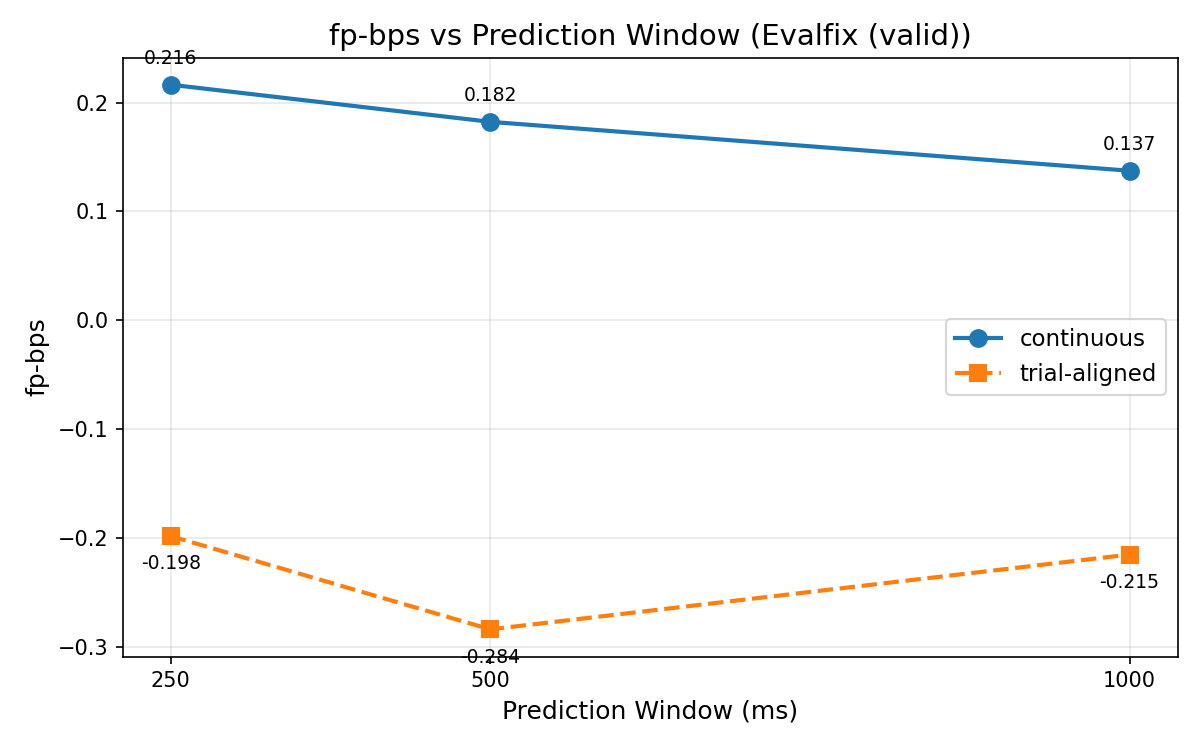
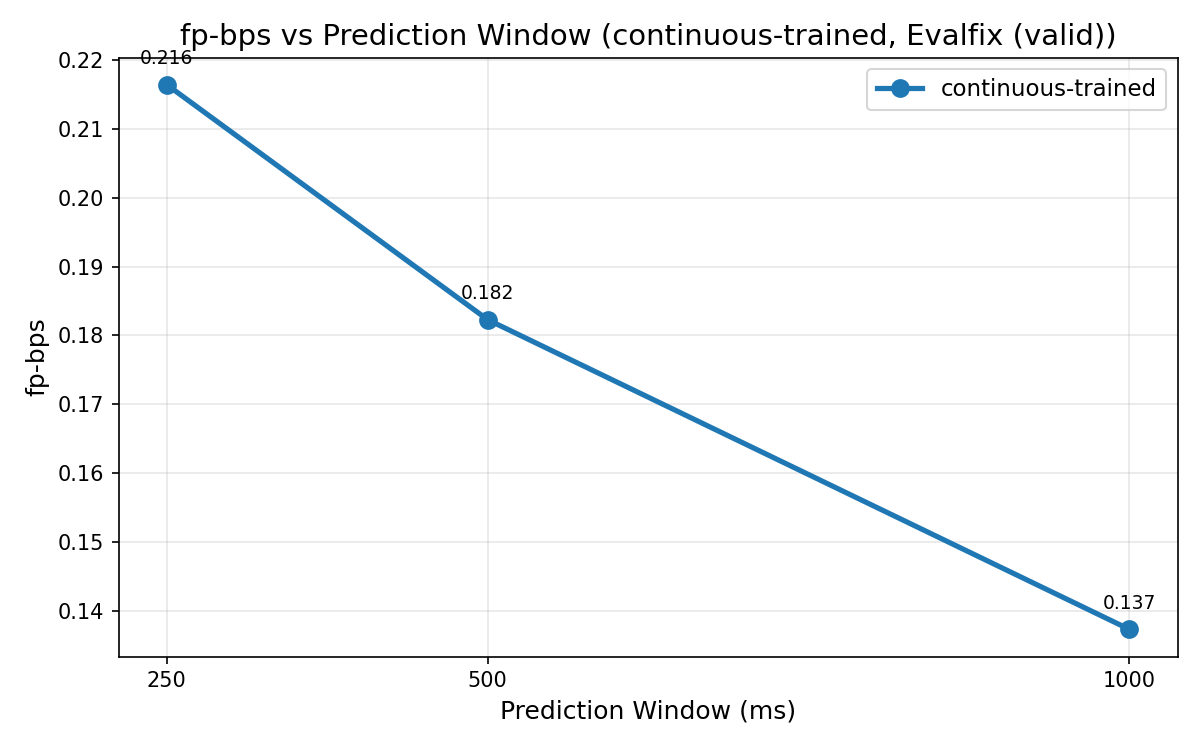
调整evalfix图包并补充250ms benchmark对比

diff --git a/scripts/analysis/neurohorizon/phase1_v2_visualize.py b/scripts/analysis/neurohorizon/phase1_v2_visualize.py
@@ -23,6 +23,7 @@ import numpy as np
 
 ROOT = Path("/root/autodl-tmp/NeuroHorizon")
 BASE = ROOT / "results" / "logs"
+WINDOWS = [250, 500, 1000]
 DEFAULT_OUT_DIRS = {
     "legacy": ROOT / "results" / "figures" / "phase1_v2",
     "evalfix": ROOT / "results" / "figures" / "phase1_v2_evalfix",
@@ -132,6 +133,11 @@ def resolve_out_dir(args) -> Path:
     return out_dir
 
 
+def cleanup_evalfix_outputs(out_dir: Path):
+    for candidate in out_dir.glob("*.png"):
+        candidate.unlink()
+
+
 def result_json_candidates(condition, protocol: str, split: str):
     dir_name = condition["legacy_dir"] if protocol == "legacy" else condition["evalfix_dir"]
     if protocol == "legacy":
@@ -153,11 +159,15 @@ def metrics_candidates(condition, protocol: str):
     ]
 
 
+def load_json(path: Path):
+    with path.open() as handle:
+        return json.load(handle)
+
+
 def load_first_json(candidates):
     for candidate in candidates:
         if candidate.exists():
-            with candidate.open() as handle:
-                return json.load(handle)
+            return load_json(candidate)
     return None
 
 
@@ -274,6 +284,30 @@ def annotate_bars(ax, bars):
         )
 
 
+def load_benchmark_focus_values():
+    nh_payload = load_first_json(
+        [
+            BASE / "phase1_v2_evalfix_250ms_cont" / "lightning_logs" / "version_0" / "eval_v2_test_results.json",
+            BASE / "phase1_v2_evalfix_250ms_cont" / "lightning_logs" / "eval_v2_test_results.json",
+        ]
+    )
+    nf_payload = load_json(
+        BASE / "phase1_benchmark_repro_faithful_neuroformer_250ms_canonical_e50_aligned" / "formal_eval" / "eval_results.json"
+    )
+    ibl_payload = load_json(
+        BASE
+        / "phase1-autoregressive-1.8-benchmark_model"
+        / "20260321_benchmark_ibl_e300_neuroformer_session_conditioning"
+        / "ibl_mtm_combined_e300_aligned"
+        / "results.json"
+    )
+    return {
+        "NeuroHorizon 250ms": nh_payload["continuous"]["fp_bps"],
+        "Neuroformer faithful 250ms": nf_payload["continuous_metrics"]["test"]["rollout"]["fp_bps"],
+        "IBL e300 250ms": ibl_payload["test_metrics"]["fp_bps"],
+    }
+
+
 def fig1_fpbps_vs_window(results, out_dir: Path, tag: str, mode: str):
     mode_results = filter_results_by_mode(results, mode)
     if not mode_results:
@@ -353,6 +387,55 @@ def fig2_perbin_decay(results, out_dir: Path, tag: str, mode: str):
     plt.close()
 
 
+def fig3_continuous_perbin_heatmap(results, out_dir: Path, tag: str):
+    mode_results = filter_results_by_mode(results, "continuous")
+    if not mode_results:
+        return
+
+    ordered_labels = ["250ms-cont", "500ms-cont", "1000ms-cont"]
+    max_bins = max(
+        len((payload.get("continuous") or {}).get("per_bin_fp_bps") or {})
+        for payload in mode_results.values()
+    )
+    data = np.full((len(ordered_labels), max_bins), np.nan, dtype=float)
+
+    for row_idx, label in enumerate(ordered_labels):
+        payload = mode_results.get(label)
+        if payload is None:
+            continue
+        per_bin = payload["continuous"].get("per_bin_fp_bps") or {}
+        for bin_key, value in per_bin.items():
+            data[row_idx, int(bin_key)] = value
+
+    masked = np.ma.masked_invalid(data)
+    cmap = plt.cm.YlGnBu.copy()
+    cmap.set_bad(color="#f0f0f0")
+
+    fig, ax = plt.subplots(1, 1, figsize=(12, 4.8))
+    image = ax.imshow(masked, aspect="auto", cmap=cmap)
+    ax.set_yticks(range(len(ordered_labels)))
+    ax.set_yticklabels(ordered_labels)
+    tick_positions = [0, 4, 9, 14, 19, 24, 29, 39, 49]
+    tick_positions = [tick for tick in tick_positions if tick < max_bins]
+    ax.set_xticks(tick_positions)
+    ax.set_xticklabels([f"{tick * 20}ms" for tick in tick_positions], rotation=0)
+    ax.set_xlabel("Prediction bin offset")
+    ax.set_title(f"Continuous per-bin fp-bps Heatmap ({tag})", fontsize=14)
+
+    for row_idx in range(masked.shape[0]):
+        for col_idx in range(masked.shape[1]):
+            if np.ma.is_masked(masked[row_idx, col_idx]):
+                continue
+            value = float(masked[row_idx, col_idx])
+            text_color = "white" if value < 0.14 else "black"
+            ax.text(col_idx, row_idx, f"{value:.2f}", ha="center", va="center", fontsize=7, color=text_color)
+
+    plt.colorbar(image, ax=ax, label="fp-bps")
+    plt.tight_layout()
+    plt.savefig(out_dir / "03_perbin_fpbps_heatmap.png", dpi=150)
+    plt.close()
+
+
 def fig3_psth_heatmap(results, out_dir: Path, tag: str, mode: str):
     labels = []
     per_target_rows = []
@@ -405,14 +488,47 @@ def fig3_psth_heatmap(results, out_dir: Path, tag: str, mode: str):
     plt.close()
 
 
-def fig4_cont_vs_trial(results, out_dir: Path, tag: str, mode: str):
-    windows = [250, 500, 1000]
+def fig4_continuous_metric_summary(results, out_dir: Path, tag: str):
     fig, axes = plt.subplots(1, 2, figsize=(12, 5))
     metric_specs = [("fp_bps", "fp-bps"), ("r2", "R-squared")]
 
     for axis, (metric_key, metric_label) in zip(axes, metric_specs):
         values = []
-        for window_ms in windows:
+        for window_ms in WINDOWS:
+            values.append(results.get(f"{window_ms}ms-cont", {}).get("continuous", {}).get(metric_key, 0.0))
+
+        axis.plot(
+            WINDOWS,
+            values,
+            color=MODE_SERIES_COLORS["continuous"],
+            linestyle=LINE_STYLES["continuous"],
+            marker=MARKERS["continuous"],
+            linewidth=2.5,
+            markersize=8,
+            label=MODE_DISPLAY_NAMES["continuous"],
+        )
+        annotate_point_series(axis, WINDOWS, values)
+        axis.set_xlabel("Prediction Window (ms)")
+        axis.set_ylabel(metric_label)
+        axis.set_title(f"{metric_label} vs Prediction Window")
+        axis.set_xticks(WINDOWS)
+        axis.legend()
+        axis.grid(True, alpha=0.3)
+        axis.axhline(y=0, color="gray", linestyle=":", alpha=0.5)
+
+    fig.suptitle(f"Continuous Metric Summary ({tag})", fontsize=14, y=1.02)
+    plt.tight_layout()
+    plt.savefig(out_dir / "04_continuous_metric_summary.png", dpi=150)
+    plt.close()
+
+
+def fig4_cont_vs_trial(results, out_dir: Path, tag: str, mode: str):
+    fig, axes = plt.subplots(1, 2, figsize=(12, 5))
+    metric_specs = [("fp_bps", "fp-bps"), ("r2", "R-squared")]
+
+    for axis, (metric_key, metric_label) in zip(axes, metric_specs):
+        values = []
+        for window_ms in WINDOWS:
             label = f"{window_ms}ms-{'cont' if mode == 'continuous' else 'trial'}"
             values.append(results.get(label, {}).get("continuous", {}).get(metric_key, 0.0))
 
@@ -426,12 +542,12 @@ def fig4_cont_vs_trial(results, out_dir: Path, tag: str, mode: str):
             markersize=8,
             label=MODE_DISPLAY_NAMES[mode],
         )
-        annotate_point_series(axis, windows, values)
+        annotate_point_series(axis, WINDOWS, values)
 
         axis.set_xlabel("Prediction Window (ms)")
         axis.set_ylabel(metric_label)
         axis.set_title(f"{metric_label} vs Prediction Window")
-        axis.set_xticks(windows)
+        axis.set_xticks(WINDOWS)
         axis.legend()
         axis.grid(True, alpha=0.3)
         axis.axhline(y=0, color="gray", linestyle=":", alpha=0.5)
@@ -490,6 +606,33 @@ def fig5_training_curves(curves, out_dir: Path, tag: str, mode: str):
     plt.close()
 
 
+def fig6_benchmark_comparison(out_dir: Path):
+    benchmark_values = load_benchmark_focus_values()
+    labels = list(benchmark_values.keys())
+    values = list(benchmark_values.values())
+    colors = ["#1f77b4", "#7b1fa2", "#2e7d32"]
+
+    fig, ax = plt.subplots(1, 1, figsize=(8, 5.5))
+    bars = ax.bar(np.arange(len(labels)), values, color=colors, alpha=0.9)
+    annotate_bars(ax, bars)
+    ax.axhline(0, color="gray", linestyle=":", alpha=0.6)
+    ax.set_xticks(np.arange(len(labels)))
+    ax.set_xticklabels(["NH\n250ms", "NF faithful\n250ms", "IBL e300\n250ms"])
+    ax.set_ylabel("fp-bps")
+    ax.set_title("Current Benchmark Reference (250ms Focus)")
+    ax.grid(True, alpha=0.3, axis="y")
+    fig.text(
+        0.5,
+        0.02,
+        "NH uses evalfix held-out test; Neuroformer uses faithful canonical 250ms rollout test; IBL uses faithful e300 test.",
+        ha="center",
+        fontsize=8.5,
+    )
+    plt.tight_layout(rect=(0, 0.05, 1, 1))
+    plt.savefig(out_dir / "06_benchmark_comparison.png", dpi=150)
+    plt.close()
+
+
 def print_summary(results):
     print("\n" + "=" * 88)
     print("SUMMARY TABLE")
@@ -534,12 +677,21 @@ def main():
     if not results:
         raise SystemExit("No evaluation results found. Run eval_phase1_v2.py first.")
 
-    for mode in ("continuous", "trial-aligned"):
-        fig1_fpbps_vs_window(results, out_dir, tag, mode)
-        fig2_perbin_decay(results, out_dir, tag, mode)
-        fig3_psth_heatmap(results, out_dir, tag, mode)
-        fig4_cont_vs_trial(results, out_dir, tag, mode)
-        fig5_training_curves(curves, out_dir, tag, mode)
+    if args.protocol == "evalfix":
+        cleanup_evalfix_outputs(out_dir)
+        fig1_fpbps_vs_window(results, out_dir, tag, "continuous")
+        fig2_perbin_decay(results, out_dir, tag, "continuous")
+        fig3_continuous_perbin_heatmap(results, out_dir, tag)
+        fig4_continuous_metric_summary(results, out_dir, tag)
+        fig5_training_curves(curves, out_dir, tag, "continuous")
+        fig6_benchmark_comparison(out_dir)
+    else:
+        for mode in ("continuous", "trial-aligned"):
+            fig1_fpbps_vs_window(results, out_dir, tag, mode)
+            fig2_perbin_decay(results, out_dir, tag, mode)
+            fig3_psth_heatmap(results, out_dir, tag, mode)
+            fig4_cont_vs_trial(results, out_dir, tag, mode)
+            fig5_training_curves(curves, out_dir, tag, mode)
     print_summary(results)
     print(f"\nAll figures saved to: {out_dir}")
 

diff --git a/cc_todo/phase1-autoregressive/20260317-phase1-1.3.4-evalfix-rerun.md b/cc_todo/phase1-autoregressive/20260317-phase1-1.3.4-evalfix-rerun.md
@@ -131,36 +131,40 @@ python scripts/analysis/neurohorizon/compare_phase1_v2_evalfix.py
 
 ### 6.4 evalfix 专用可视化补充（2026-03-25）
 
-**补充原因**：原始 rerun 记录已有 valid/test 表格和 comparison JSON/MD，但没有按 plan.md `1.3.4` 的 canonical 5 图规范为 evalfix 结果单独落盘；同时旧版 `phase1_v2_visualize.py` 会优先读取 evalfix JSON，导致 legacy / evalfix 图表都写进 `results/figures/phase1_v2/`，目录语义不清晰。
+**补充原因**：原始 rerun 记录已有 valid/test 表格和 comparison JSON/MD，但没有按 plan.md `1.3.4` 的规范为 evalfix 结果单独落盘；而且用户后续进一步要求 `results/figures/phase1_v2_evalfix/` 只保留 continuous 主线图，并补一张与当前 benchmark 最新 250ms 结果对齐的 comparison 图。
 
 **本次执行命令**：
 
 ```bash
 conda activate poyo
 cd /root/autodl-tmp/NeuroHorizon
-python scripts/analysis/neurohorizon/phase1_v2_visualize.py --protocol legacy
 python scripts/analysis/neurohorizon/phase1_v2_visualize.py --protocol evalfix --split valid --out-dir /root/autodl-tmp/NeuroHorizon/results/figures/phase1_v2_evalfix
 ```
 
 **新增产物**：
 - `results/figures/phase1_v2_evalfix/01_fpbps_vs_window.png`
 - `results/figures/phase1_v2_evalfix/02_perbin_fpbps_decay.png`
-- `results/figures/phase1_v2_evalfix/03_psth_r2_heatmap.png`
-- `results/figures/phase1_v2_evalfix/04_cont_vs_trial.png`
+- `results/figures/phase1_v2_evalfix/03_perbin_fpbps_heatmap.png`
+- `results/figures/phase1_v2_evalfix/04_continuous_metric_summary.png`
 - `results/figures/phase1_v2_evalfix/05_training_curves.png`
-- `results/figures/phase1_v2/01-05_*.png` 已按 `legacy` 协议重新生成，避免继续混用 evalfix 数据
+- `results/figures/phase1_v2_evalfix/06_benchmark_comparison.png`
 
 **可视化口径说明**：
-- 为与 plan.md `1.3.4` 的 5 图规范保持一致，本次补图使用 `valid` split 生成 canonical figure package
+- `01-05` 全部只呈现 continuous 主线
+- `01-05` 使用 `valid` split 的 evalfix JSON + `metrics.csv`
+- `06` 使用当前 benchmark latest 250ms reference：
+  - NeuroHorizon：held-out test `fp-bps = 0.2223`
+  - Neuroformer faithful canonical 250ms：rollout test `fp-bps = -8.0350`
+  - IBL e300 250ms：test `fp-bps = 0.1938`
 - `test` split 仍以本文件 `6.2` 的表格和 `eval_v2_test_results.json` 作为正式 held-out 结果
-- Figure 5 读取的是训练期 `metrics.csv`；offline sequential continuous 结论仍以 `eval_v2_valid_results.json` 为准
 
 **关键图表结论**：
-1. `01_fpbps_vs_window.png`：continuous 仍保持 `0.2164 -> 0.1823 -> 0.1374` 的缓慢衰减，trial-aligned 维持负值，说明 evalfix 没有改变主排序。
-2. `02_perbin_fpbps_decay.png`：`250ms-cont` 全 12 个 bin 都保持正值且相对平稳（`0.1735–0.2690`）；`500/1000ms-cont` 的后段分别衰减到 `0.1206 / 0.0915`；trial `500/1000ms` 末段则跌到 `-0.4119 / -0.3579`。
-3. `03_psth_r2_heatmap.png`：统一成 `per_neuron_psth_r2` 后，数值分布收敛到 `0.49–0.68`，不再支持旧版 population-mean PSTH-R2 下的“trial-aligned 一边倒更高”叙述。
-4. `04_cont_vs_trial.png`：continuous 在 `fp-bps` 和 `R²` 两个主指标上都稳定优于 trial-aligned，其中 `500ms` gap 最大（`fp-bps 0.1823 vs -0.2839`，`R² 0.2368 vs 0.0602`）。
-5. `05_training_curves.png`：continuous 三组 best validation `fp-bps` 分别出现在 epoch `159 / 259 / 269`；trial `500/1000ms` 在 epoch `69 / 59` 后明显崩塌，到 epoch 299 时训练期 `val/fp_bps` 已降到 `-1.2378 / -0.9621`。
+1. `01_fpbps_vs_window.png`：continuous 仍保持 `0.2164 -> 0.1823 -> 0.1374` 的缓慢衰减，evalfix 没有改变 `250ms > 500ms > 1000ms` 的主排序。
+2. `02_perbin_fpbps_decay.png`：`250ms-cont` 全 12 个 bin 都保持正值且相对平稳（`0.1735–0.2690`）；`500/1000ms-cont` 的后段分别衰减到 `0.1206 / 0.0915`。
+3. `03_perbin_fpbps_heatmap.png`：三种窗口的 horizon 衰减被压到同一张 heatmap 里，直观看出 `1000ms` 的掉速主要来自远端 bins。
+4. `04_continuous_metric_summary.png`：continuous `fp-bps` 与 `R²` 两条曲线都随窗口增大而下降，其中 `fp-bps` 的下降更明显。
+5. `05_training_curves.png`：continuous 三组 best validation `fp-bps` 分别出现在 epoch `159 / 259 / 269`，之后只小幅回落，说明主线 baseline 收敛稳定。
+6. `06_benchmark_comparison.png`：当前 250ms reference 中，`NeuroHorizon = 0.2223` 仍高于 `IBL e300 = 0.1938`，而 `Neuroformer faithful canonical 250ms rollout = -8.0350` 仍显著为负。
 
 ## 7. 结论
 

diff --git a/cc_core_files/scripts.md b/cc_core_files/scripts.md
@@ -890,14 +890,15 @@
 ### phase1_v2_visualize.py（1.3.4 可视化脚本）
 
 - **路径**：`scripts/analysis/neurohorizon/phase1_v2_visualize.py`
-- **功能用途**：Phase 1 v2 / evalfix 重跑的 canonical 5 图可视化
-  - `--protocol legacy`：生成原始 `1.3.4` legacy 图表
-  - `--protocol evalfix --split valid|test`：生成协议修正后的 evalfix 图表
-  - Figure 1：fp-bps vs 预测窗口（连续 vs trial-aligned）
-  - Figure 2：per-bin fp-bps 衰减曲线
-  - Figure 3：`per_neuron_psth_r2` 热力图（8 方向 x 6 条件）
-  - Figure 4：连续 vs trial-aligned 对比柱状图
-  - Figure 5：训练曲线（val_loss + val_fp_bps vs epoch）
+- **功能用途**：Phase 1 v2 / evalfix 重跑的可视化总入口
+  - `--protocol legacy`：生成原始 `1.3.4` legacy 图表，并按训练模式拆成 `continuous-only` 与 `trial-aligned-only` 两套 companion 图
+  - `--protocol evalfix --split valid|test`：生成协议修正后的 evalfix 图表，目录收口为 `continuous-only` 5 图 + 1 张 benchmark reference 图
+  - evalfix Figure 1：continuous `fp-bps` vs prediction window
+  - evalfix Figure 2：continuous per-bin `fp-bps` decay
+  - evalfix Figure 3：continuous per-bin `fp-bps` heatmap
+  - evalfix Figure 4：continuous `fp-bps / R²` window summary
+  - evalfix Figure 5：continuous training curves
+  - evalfix Figure 6：`NeuroHorizon 250ms` / `Neuroformer faithful 250ms` / `IBL e300 250ms` benchmark focus
 - **创建时间**：2026-03-12
 - **使用方式**：
   ````bash
@@ -907,10 +908,15 @@
   python scripts/analysis/neurohorizon/phase1_v2_visualize.py --protocol evalfix --split valid --out-dir /root/autodl-tmp/NeuroHorizon/results/figures/phase1_v2_evalfix
   ````
 - **输出**：
-  - `results/figures/phase1_v2/*.png`（legacy 5 张图）
-  - `results/figures/phase1_v2_evalfix/*.png`（evalfix valid 5 张图）
+  - `results/figures/phase1_v2/*.png` + `results/figures/phase1_v2/*_trial_aligned.png`
+  - `results/figures/phase1_v2_evalfix/01_fpbps_vs_window.png`
+  - `results/figures/phase1_v2_evalfix/02_perbin_fpbps_decay.png`
+  - `results/figures/phase1_v2_evalfix/03_perbin_fpbps_heatmap.png`
+  - `results/figures/phase1_v2_evalfix/04_continuous_metric_summary.png`
+  - `results/figures/phase1_v2_evalfix/05_training_curves.png`
+  - `results/figures/phase1_v2_evalfix/06_benchmark_comparison.png`
 - **依赖**：poyo conda 环境, matplotlib
-- **备注**：对应 plan.md 任务 1.3.4；2026-03-25 起要求显式指定 protocol，避免 legacy / evalfix 图表混写到同一目录
+- **备注**：对应 plan.md 任务 1.3.4；2026-03-25 起要求显式指定 protocol，避免 legacy / evalfix 图表混写到同一目录；evalfix 的 `06_benchmark_comparison.png` 固定引用 held-out test 的 benchmark reference
 
 ### run_phase1_v2_evalfix.sh（1.3.4 evalfix 全量重跑脚本）
 

diff --git a/progress.md b/progress.md
@@ -2444,3 +2444,33 @@
 **执行结果**：
 - `06_benchmark_comparison.png` 最右侧现为 250ms 聚焦 table，不再使用柱状图
 - 左/中两个 panel 保持不变，仍沿用上一版的数据口径
+
+## 2026-03-25 15:00 CST - 调整 evalfix 图包为 continuous-only 并补充 250ms benchmark 对比
+
+**完成事项**：
+1. 修改 `scripts/analysis/neurohorizon/phase1_v2_visualize.py`
+2. 将 `results/figures/phase1_v2_evalfix/` 收口为 continuous-only 图包
+3. 替换原先带有 trial/PSTH 语义的 evalfix 图：
+   - `03_perbin_fpbps_heatmap.png`
+   - `04_continuous_metric_summary.png`
+4. 新增 `06_benchmark_comparison.png`，只比较：
+   - `NeuroHorizon 250ms`
+   - `Neuroformer faithful 250ms`
+   - `IBL e300 250ms`
+5. 更新 `cc_todo/phase1-autoregressive/20260317-phase1-1.3.4-evalfix-rerun.md`、`cc_core_files/results.md`、`cc_core_files/scripts.md`
+
+**执行结果**：
+- `results/figures/phase1_v2_evalfix/` 当前仅保留 6 张图：
+  - `01_fpbps_vs_window.png`
+  - `02_perbin_fpbps_decay.png`
+  - `03_perbin_fpbps_heatmap.png`
+  - `04_continuous_metric_summary.png`
+  - `05_training_curves.png`
+  - `06_benchmark_comparison.png`
+- 新 benchmark 对比图使用的 250ms test/reference 数值：
+  - NeuroHorizon：`0.2223`
+  - Neuroformer faithful canonical rollout：`-8.0350`
+  - IBL e300：`0.1938`
+
+**遇到的问题**：
+- 第一次重跑脚本时遗漏了 `load_json()` helper，导致 `06_benchmark_comparison.png` 生成时报 `NameError`；补上 helper 后已重跑通过
